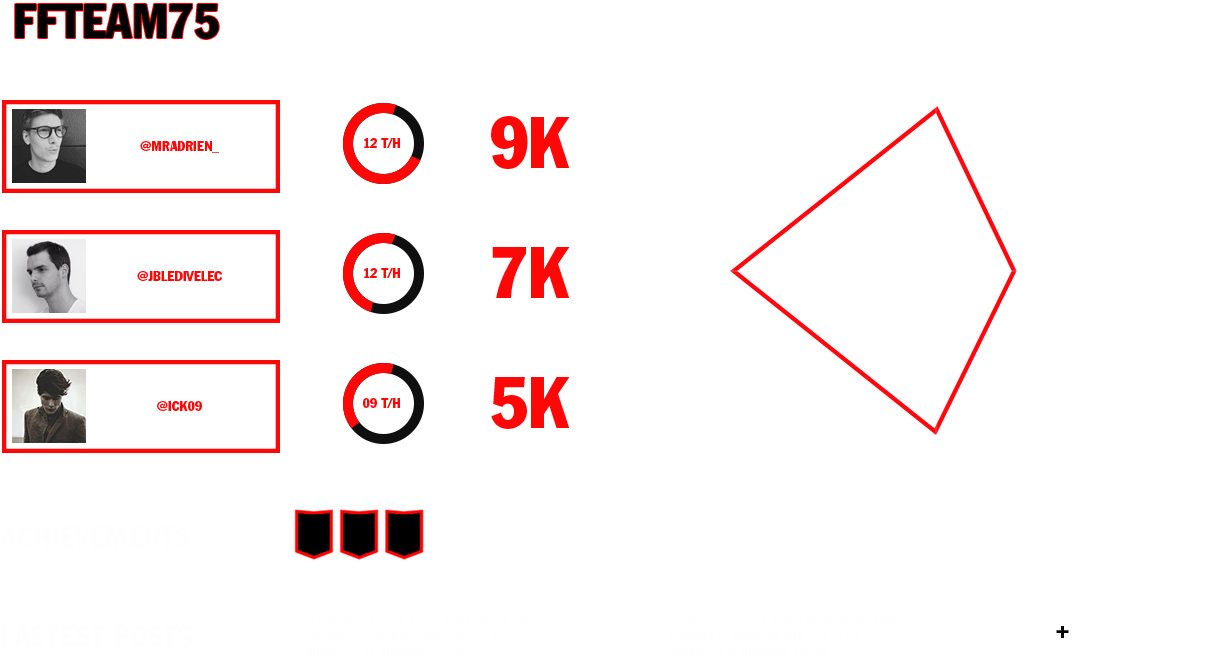
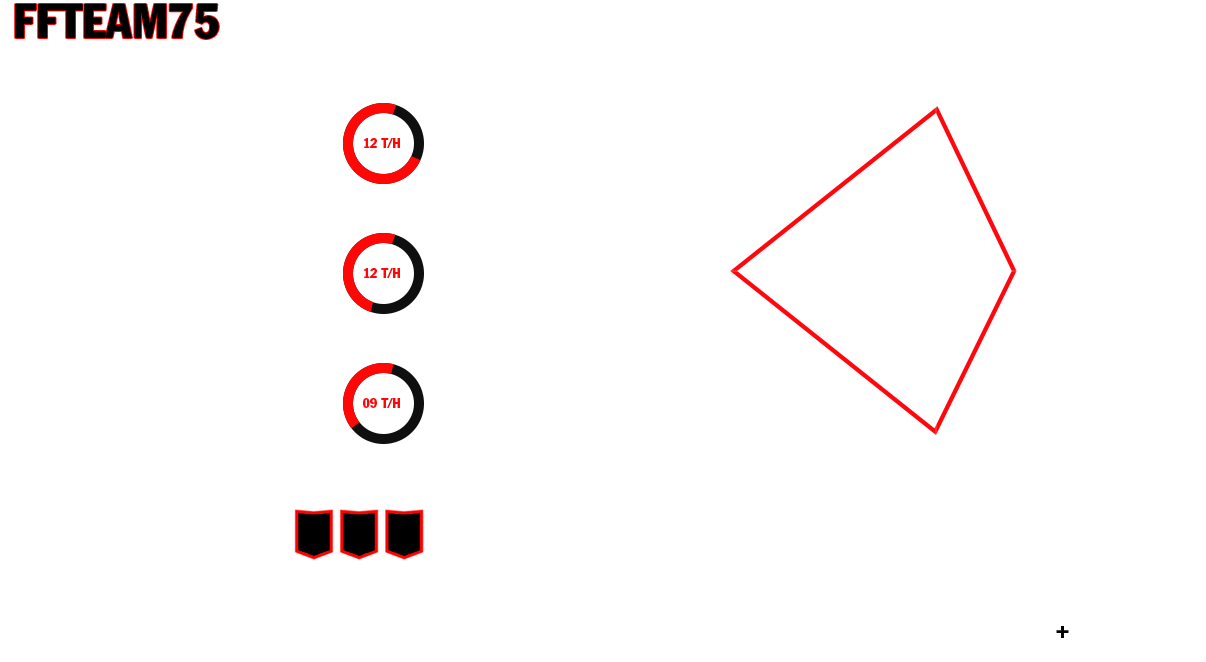
web bug stand.html ,team_build.html,TWEET WALL ,COUNTDOWN

diff --git a/web/css/style.css b/web/css/style.css
@@ -36,6 +36,7 @@ body{background:#000;height: 100%;width: 100%}
 .pagebg4{background:url('../images/bg4.jpg') no-repeat center top; background-size:cover; }
 .pagebg5{background:url('../images/bg5.jpg') no-repeat center top; background-size:cover; }
 .pagebg6{background:url('../images/bg6.jpg') no-repeat center top; background-size:cover; }
+.pagebg7{background:url('../images/bg7.jpg') no-repeat center top; background-size:cover; }
 
 
 /* PAGE Used
@@ -88,19 +89,52 @@ body{background:#000;height: 100%;width: 100%}
 	.race_navitem{background: url('../images/race_nav.png') no-repeat 0 -107px;height: 31px;line-height: 30px;padding-left:45px;}
 	.race_navitemon{background-position: 0 -138px;}
 	
-
-/* stand */
-.stand{background: url('../images/stand.png') no-repeat center;width:1206px;left:320px;top:0;bottom:0;position: absolute;}
-
 /* teambuild */
-.teambuild{position:absolute;left: 584px;top: 180px}
+.teambuild{position:absolute;left: 50%;top: 50%;width:715px;height: 654px;margin: -327px 0 0 -357px}
 	.teambuild_step{font-size: 24px;color:#fff;text-transform: uppercase;text-align: center;width: 400px;line-height: 30px}
 	.teambuild_tit{font-size: 48px;color:#f00;text-transform: uppercase;text-align: center;width: 400px;line-height: 80px;height: 110px}
-	.teambuild_member{padding-right:320px;}
-	.teambuild_info1{background: url('../images/member_info1.png') no-repeat right;}
-	.teambuild_info2{background: url('../images/member_info2.png') no-repeat right;}
-		.member_item{border:#f00 solid 4px;width: 270px;height: 74px;padding:5px;margin:0 0 36px 60px;}
+	.teambuild_member{}
+		.member_item{border:#f00 solid 4px;width: 270px;height: 74px;padding:5px;margin:0 0 36px 60px;float: left}
 			.member_item img{float: left:;}
 			.member_name{float: right;width: 180px;text-align: center;font-size: 14px;color:#f00;padding:20px 0 0;}
+		.member_speed{width: 85px;height: 85px; background:url('../images/stand.png') no-repeat -341px -101px;float: left;margin-left:60px;display:inline;}
+		.memeber_space{float:left;font-size: 72px;font-weight: bold;color:#f00;line-height: 85px;text-align: center;width: 220px}
 	.member_add{border:#f00 solid 4px;width: 270px;height: 74px;padding:5px;margin:0 0 0 60px;font-size: 30px;text-align: center;color:#f00;line-height: 72px;display: block;}
 	.member_ok{width: 270px;height: 60px;padding:0 5px;margin:70px 0 36px 60px;font-size: 26px;text-align: center;color:#f00;line-height: 60px;display: block;background: #fff;font-weight: bold;}
+		
+
+/* stand */
+.stand{width:1206px;height:662px;left:50%;top:50%;bottom:50%;position: absolute;margin: -330px 0 0 -602px}
+	.stand_tit{background: url('../images/stand.png') no-repeat;width: 600px;height: 100px}
+	.stand_useritem{margin-bottom:40px;}
+		.stand_useritem .member_item{margin: 0}
+	.stand_achivments{font-size: 30px;color:#fefefe;opacity: 0.6;filter:alpha(opacity=60);text-transform: uppercase;line-height:60px; padding: 10px 0 0}
+		.stand_achivmentsbox{float: left;padding:0 0 0 50px;}
+			.stand_achivmentsbox p{width: 46px;height: 55px;background:url('../images/stand.png') no-repeat -291px -507px; float: left;}
+	.stand_tweet{color:#fefefe;opacity: 0.6;filter:alpha(opacity=60);padding: 40px 0 0}
+		.stand_tweet h2{font-size: 30px;padding:20px 0 0 0;text-transform: uppercase;width: 240px}
+		.stand_tweetitem{font-size: 14px;float: left;width: 220px;padding:0 70px;}
+	.stand_chart{width: 540px;height: 510px;position: absolute;right: 0;top: 0;background:url('../images/stand.png') no-repeat right top;}
+	.stand_add{width: 60px;height: 60px;position: absolute;top:602px;left: 1032px;background:url('../images/stand.png') no-repeat -602px -1032px;cursor: pointer;}
+
+/* tweet */
+.tweet{width: 960px;position: absolute;height:770px;left:50%;top:50%;margin: -385px 0 0 -480px; }
+	.tweet_item{width: 300px;height: 370px;border:#f00 solid 4px;color:#f00;position: absolute;}
+	.tweet_item1{top:228px;}
+	.tweet_item2{color:#06f;border-color:#06f;left:320px;}
+	.tweet_item3{left: 320px;top:390px }
+		.tweet_user{padding:5px;}
+			.tweet_user img{float: left;}
+			.tweet_username{float: right;width: 200px;text-align: center;line-height: 74px;font-weight: bold;font-size: 14px}
+		.tweet_com{padding:10px;font-weight:bold;}
+			.tweet_com img{padding:10px 0;width: 280px}
+	.tweet_add{position: absolute;right: 0;top:50%;border: #f00 solid 3px;width:120px;height: 120px;line-height: 120px;font-size: 40px;color:#f00; text-align: center;margin-top:-63px;}
+
+
+
+/* countdown */
+.count{width: 660px;height:500px;position: absolute;left: 50%;top: 50%;margin: -250px 0 0 -330px;line-height: 36px}
+	.conut_tit{font-size: 36px;text-align: center;font-weight: bold;text-transform: uppercase;margin: 50px 0 0;}
+	.conut_watch{font-size: 24px;text-align: center;font-weight: bold;text-transform: uppercase;background: url('../images/count_play.png') no-repeat top center;padding: 110px 0 0}
+	.conut_down{background: url('../images/countdownbg.png') no-repeat;width: 565px;height: 208px;padding-left:95px;}
+		.conut_downitem{font-size: 72px;float: left;line-height:220px;margin-right:52px;display:inline;color:#cfcfcf;}

diff --git a/web/tweet.html b/web/tweet.html
@@ -1,0 +1,73 @@
+<!DOCTYPE html PUBLIC "-//W3C//DTD XHTML 1.0 Transitional//EN" "http://www.w3.org/TR/xhtml1/DTD/xhtml1-transitional.dtd">
+<html xmlns="http://www.w3.org/1999/xhtml">
+<head>
+    <meta http-equiv="Content-Type" content="text/html;charset=utf-8" />
+    <meta name="keywords" content="" />
+    <meta name="description" content="" />
+    <title>PORSCHE</title>
+    <link href="css/style.css" rel="stylesheet" type="text/css" />
+</head>
+<body class="bg1">
+	<!--  -->
+	<div class="page pagebg6">
+        <!-- logo -->
+        <div class="logo">PORSCHE</div>
+        <!-- nav -->
+        <div class="nav">
+            <div class="navicon"></div>
+            <p class="on"><a href="#">The Race</a></p>
+            <p><a href="#">Monitoring</a></p>
+            <p><a href="#">My Stand</a></p>
+            <p><a href="#">Fuel</a></p>
+        </div>
+        <!-- tweet -->
+        <div class="tweet">
+            <!--  -->
+            <div class="tweet_item tweet_item1">
+                <div class="tweet_user cs-clear">
+                    <img src="images/phodemo.jpg" />
+                    <p class="tweet_username">@Mradrien_</p>
+                </div>
+                <div class="tweet_com">
+                    <p>My tweets are great, check dat !  <br />Chuck Norris was also born on March 10... And here is a pic where @barbarapalvin gives me a kiss #hashtag </p>
+                    <img src="images/fueldemo2.jpg" width="280" />
+                </div>
+            </div>
+            <div class="tweet_item tweet_item2">
+                <div class="tweet_user cs-clear">
+                    <img src="images/phodemo.jpg" />
+                    <p class="tweet_username">@Mradrien_</p>
+                </div>
+                <div class="tweet_com">
+                    <p>My tweets are great, check dat !  <br />Chuck Norris was also born on March 10... And here is a pic where @barbarapalvin gives me a kiss #hashtag </p>
+                    <img src="images/fueldemo2.jpg" width="280" />
+                </div>
+            </div>
+            <div class="tweet_item tweet_item3">
+                <div class="tweet_user cs-clear">
+                    <img src="images/phodemo.jpg" />
+                    <p class="tweet_username">@Mradrien_</p>
+                </div>
+                <div class="tweet_com">
+                    <p>My tweets are great, check dat !  <br />Chuck Norris was also born on March 10... And here is a pic where @barbarapalvin gives me a kiss #hashtag </p>
+                </div>
+            </div>
+            <!--  -->
+            <div class="tweet_add">+</div>
+        </div>
+        <!-- tweet end -->
+	</div>
+	<!--  -->
+<!--  -->
+    <script src="js/jquery-1.8.3.min.js"></script>
+<!--  -->
+    <!--IE6透明判断-->
+    <!--[if IE 6]>
+    <script src="js/DD_belatedPNG.js"></script>
+    <script>
+        DD_belatedPNG.fix('*');
+        document.execCommand("BackgroundImageCache", false, true);
+    </script>
+    <![endif]-->
+</body>
+</html>

diff --git a/web/countdown.html b/web/countdown.html
@@ -1,0 +1,49 @@
+<!DOCTYPE html PUBLIC "-//W3C//DTD XHTML 1.0 Transitional//EN" "http://www.w3.org/TR/xhtml1/DTD/xhtml1-transitional.dtd">
+<html xmlns="http://www.w3.org/1999/xhtml">
+<head>
+    <meta http-equiv="Content-Type" content="text/html;charset=utf-8" />
+    <meta name="keywords" content="" />
+    <meta name="description" content="" />
+    <title>PORSCHE</title>
+    <link href="css/style.css" rel="stylesheet" type="text/css" />
+</head>
+<body class="bg1">
+	<!--  -->
+	<div class="page pagebg7">
+        <!-- logo -->
+        <div class="logo">PORSCHE</div>
+        <!-- nav -->
+        <div class="nav">
+            <div class="navicon"></div>
+            <p class="on"><a href="#">The Race</a></p>
+            <p><a href="#">Monitoring</a></p>
+            <p><a href="#">My Stand</a></p>
+            <p><a href="#">Fuel</a></p>
+        </div>
+        <!-- count -->
+        <div class="count">
+            <div class="conut_tit">#24socialrace</div>
+            <div class="conut_down cs-clear">
+                <div class="conut_downitem">00</div>
+                <div class="conut_downitem">00</div>
+                <div class="conut_downitem">00</div>
+                <div class="conut_downitem">00</div>
+            </div>
+            <div class="conut_watch">watch the trailer</div>
+        </div>
+        <!-- count end -->
+	</div>
+	<!--  -->
+<!--  -->
+    <script src="js/jquery-1.8.3.min.js"></script>
+<!--  -->
+    <!--IE6透明判断-->
+    <!--[if IE 6]>
+    <script src="js/DD_belatedPNG.js"></script>
+    <script>
+        DD_belatedPNG.fix('*');
+        document.execCommand("BackgroundImageCache", false, true);
+    </script>
+    <![endif]-->
+</body>
+</html>

diff --git a/web/stand.html b/web/stand.html
@@ -22,6 +22,58 @@
 		</div>
 		<!-- stand -->
 		<div class="stand">
+			<div class="stand_tit"></div>
+			<!--  -->
+			<div class="teambuild_member stand_useritem cs-clear">
+				<div class="member_item ">
+					<img src="images/phodemo.jpg" />
+					<p class="member_name">@Mradrien_</p>
+				</div>
+				<div class="member_speed"></div>
+				<div class="memeber_space">11K</div>
+			</div>
+			<!--  -->
+			<div class="teambuild_member stand_useritem cs-clear">
+				<div class="member_item ">
+					<img src="images/phodemo.jpg" />
+					<p class="member_name">@Mradrien_</p>
+				</div>
+				<div class="member_speed"></div>
+				<div class="memeber_space">11K</div>
+			</div>
+			<!--  -->
+			<div class="teambuild_member stand_useritem cs-clear">
+				<div class="member_item ">
+					<img src="images/phodemo.jpg" />
+					<p class="member_name">@Mradrien_</p>
+				</div>
+				<div class="member_speed"></div>
+				<div class="memeber_space">11K</div>
+			</div>
+			<!--  -->
+			<div class="stand_achivments cs-clear">
+				<h2 class="fl">achievements</h2>
+				<div class="stand_achivmentsbox">
+					<p></p>
+					<p></p>
+					<p></p>
+				</div>
+			</div>
+			<!--  -->
+			<div class="stand_tweet">
+				<h2 class="fl">Lastest Posts</h2>
+				<div class="stand_tweetitem">
+					@yenatweet Good news, maintenant faut attendre le montant afin voir si ça diminuera le dumping social.
+				</div>
+				<div class="stand_tweetitem">
+					@yenatweet Good news, maintenant faut attendre le montant afin voir si ça diminuera le dumping social.
+				</div>
+			</div>
+			<!--  -->
+			<div class="stand_chart"></div>
+			<!--  -->
+			<div class="stand_add"></div>
+
 		</div>
 		<!-- stand end -->
 	</div>

diff --git a/web/team_build.html b/web/team_build.html
@@ -24,17 +24,21 @@
 		<div class="teambuild">
 			<div class="teambuild_step">step 1/3</div>
 			<div class="teambuild_tit">team building</div>
-			<div class="teambuild_member teambuild_info1">
-				<div class="member_item cs-clear">
+			<div class="teambuild_member teambuild_info1 cs-clear">
+				<div class="member_item ">
 					<img src="images/phodemo.jpg" />
 					<p class="member_name">@Mradrien_</p>
 				</div>
+				<div class="member_speed"></div>
+				<div class="memeber_space">11K</div>
 			</div>
-			<div class="teambuild_member teambuild_info2">
+			<div class="teambuild_member teambuild_info2 cs-clear">
 				<div class="member_item cs-clear">
 					<img src="images/phodemo.jpg" />
 					<p class="member_name">@Mradrien_</p>
 				</div>
+				<div class="member_speed"></div>
+				<div class="memeber_space">11K</div>
 			</div>
 			<a href="#" class="member_add cs-clear">+</a>
 			<a href="#" class="member_ok cs-clear">OK</a>
